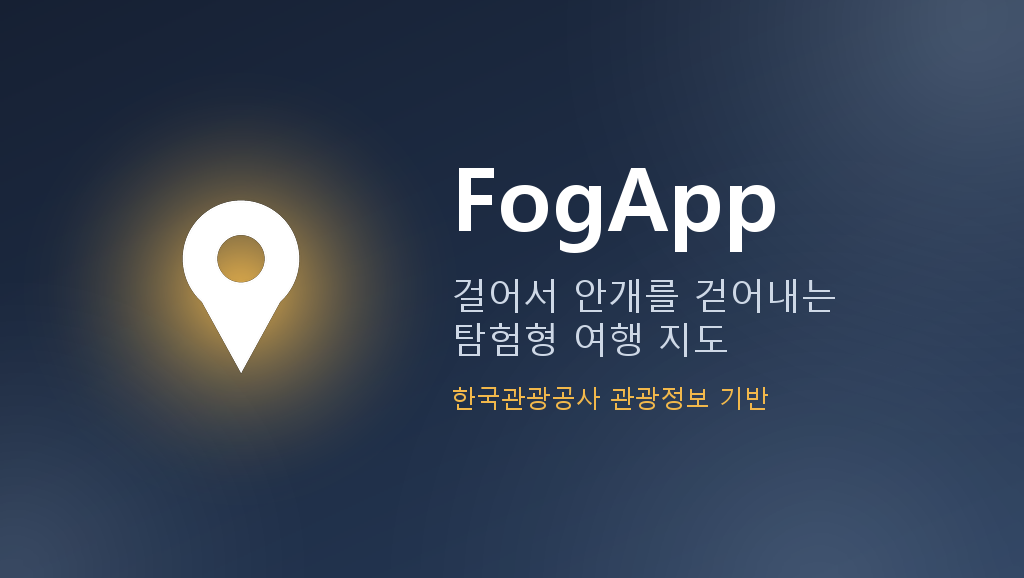
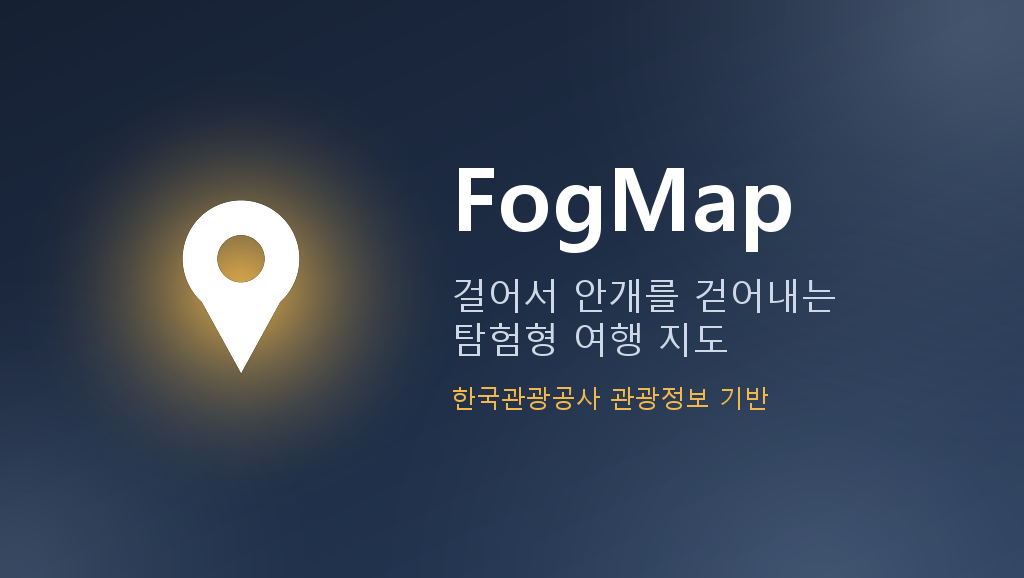
feat: 스토어 그래픽 이미지 제목도 FogMap — 앱 이름 변경(#232)에 맞춤
#232 가 앱 이름을 FogMap 으로 정해서 이 PR 의 보류 사유(아이콘 글자 FogMap ↔
앱 이름 FogApp)가 풀렸다. 전수 grep 에서 사용자에게 보이는 곳이 하나 더 남아
있었다 — 원스토어 상세 상단 그래픽 이미지에 FogApp 이 88pt 로 박혀 있었다.

- make_graphic.py 75행 제목 문자열만 FogMap
- 다시 뽑은 뒤 옛 이미지와 픽셀 차이를 쟀다 — 바뀐 영역 (607,168)-(791,252) =
  제목 글자 자리뿐. 배경·핀·부제는 그대로

Changed region(s): [[0.5938, 0.2803, 0.7812, 0.436]]

diff --git a/tools/store_assets/make_graphic.py b/tools/store_assets/make_graphic.py
@@ -72,7 +72,7 @@ def main():
     draw = ImageDraw.Draw(img)
     x = round(W * 0.44)
     lines = [
-        ('FogApp', ImageFont.truetype(BOLD, 88), WHITE, 26),
+        ('FogMap', ImageFont.truetype(BOLD, 88), WHITE, 26),
         ('걸어서 안개를 걷어내는', ImageFont.truetype(REGULAR, 36), (206, 216, 230), 10),
         ('탐험형 여행 지도', ImageFont.truetype(REGULAR, 36), (206, 216, 230), 30),
         ('한국관광공사 관광정보 기반', ImageFont.truetype(REGULAR, 25), AMBER, 0),

diff --git a/docs/store/README.md b/docs/store/README.md
@@ -134,6 +134,8 @@ cd tools/store_assets && python make_graphic.py ../../docs/store/graphic-1024x57
 ⚠ **워드마크가 48px(mdpi)에서는 거의 안 읽힙니다.** 원본이 글자를 크게 품은 그림이라 줄이면 글자가 먼저 뭉개집니다. 런처에서는 색·구름·지도 윤곽으로 알아보게 되고, 이름은 아이콘 아래 앱 이름(`android:label`)이 맡습니다.
 
 > 📌 [make_icon.py](../../tools/store_assets/make_icon.py) 는 **옛 아이콘**(안개 속 걷힌 원 + 앰버 핀)을 그리던 스크립트입니다. 그래픽 이미지(`make_graphic.py`)가 그 색·핀 모양을 import 하므로 지우지 않았습니다 — **그래픽 이미지는 아직 옛 디자인**입니다.
+>
+> 그래픽 이미지의 **제목 글자만** 앱 이름 변경([#232](../../pull/232))에 맞춰 `FogMap` 으로 바꿨습니다(`make_graphic.py` 75행). 배경·핀은 그대로입니다.
 
 ### 그래픽 이미지 (옛 디자인)
 
